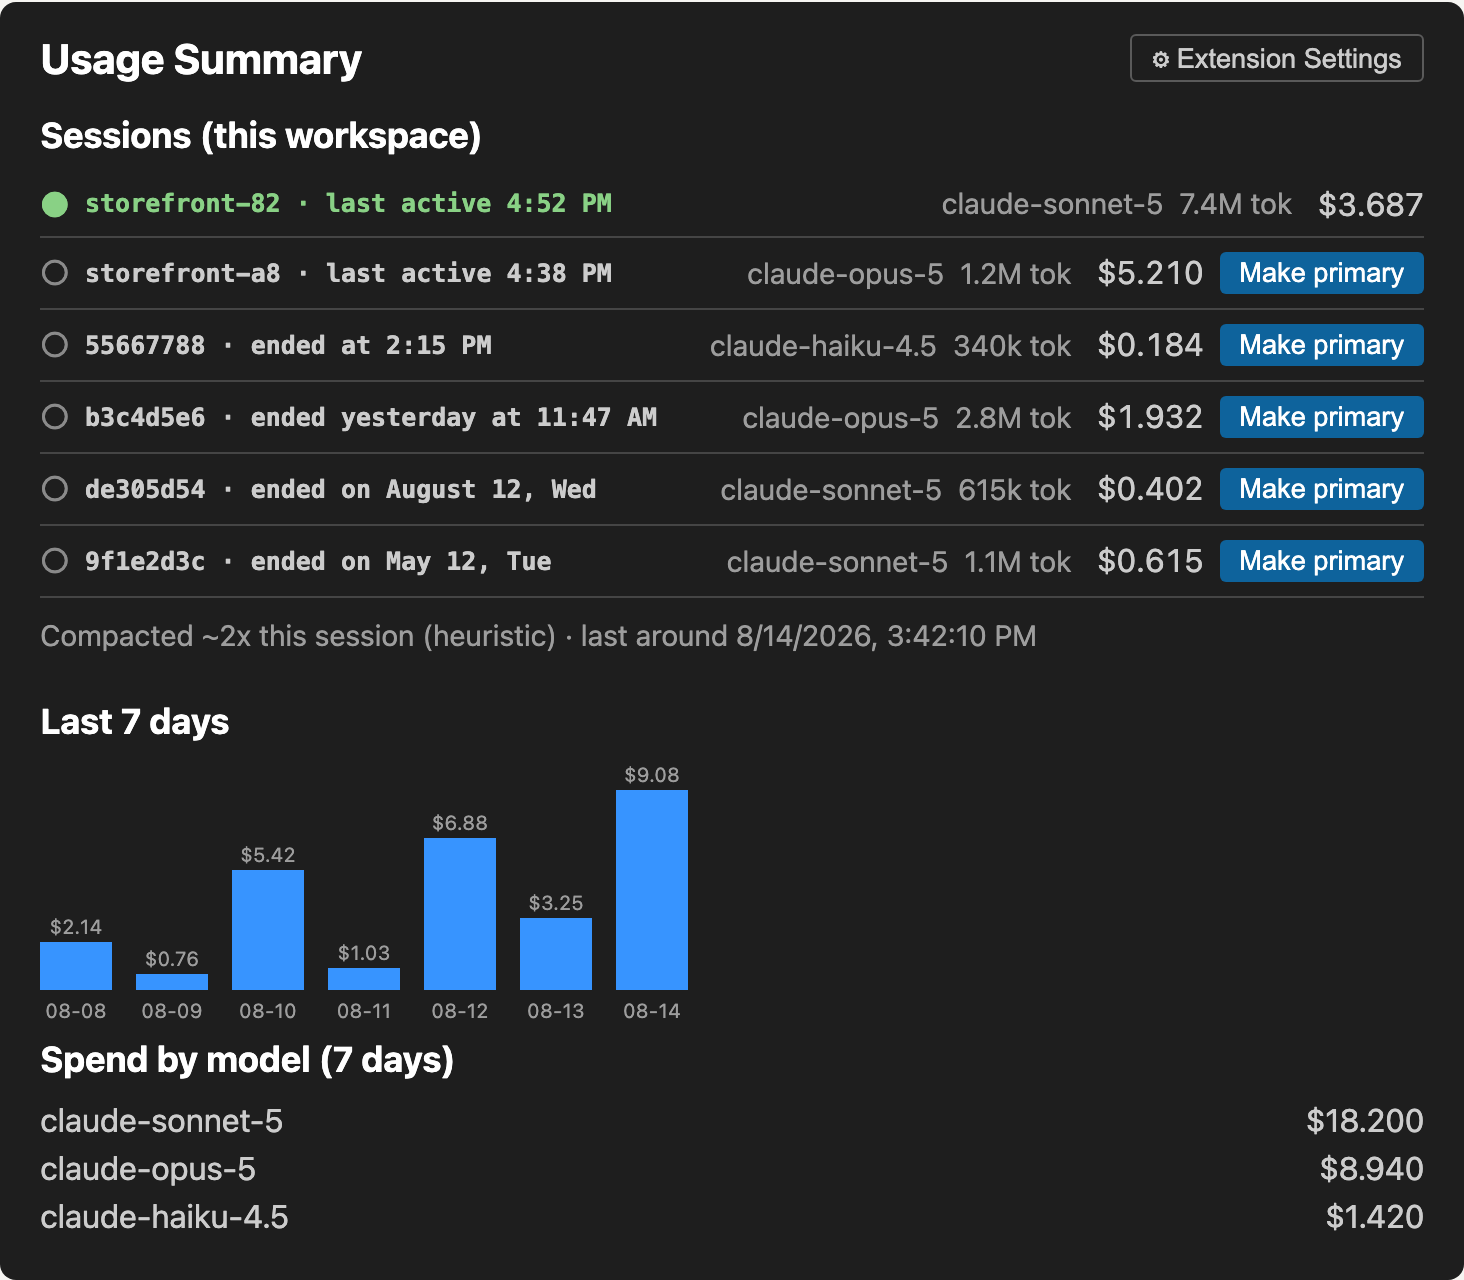
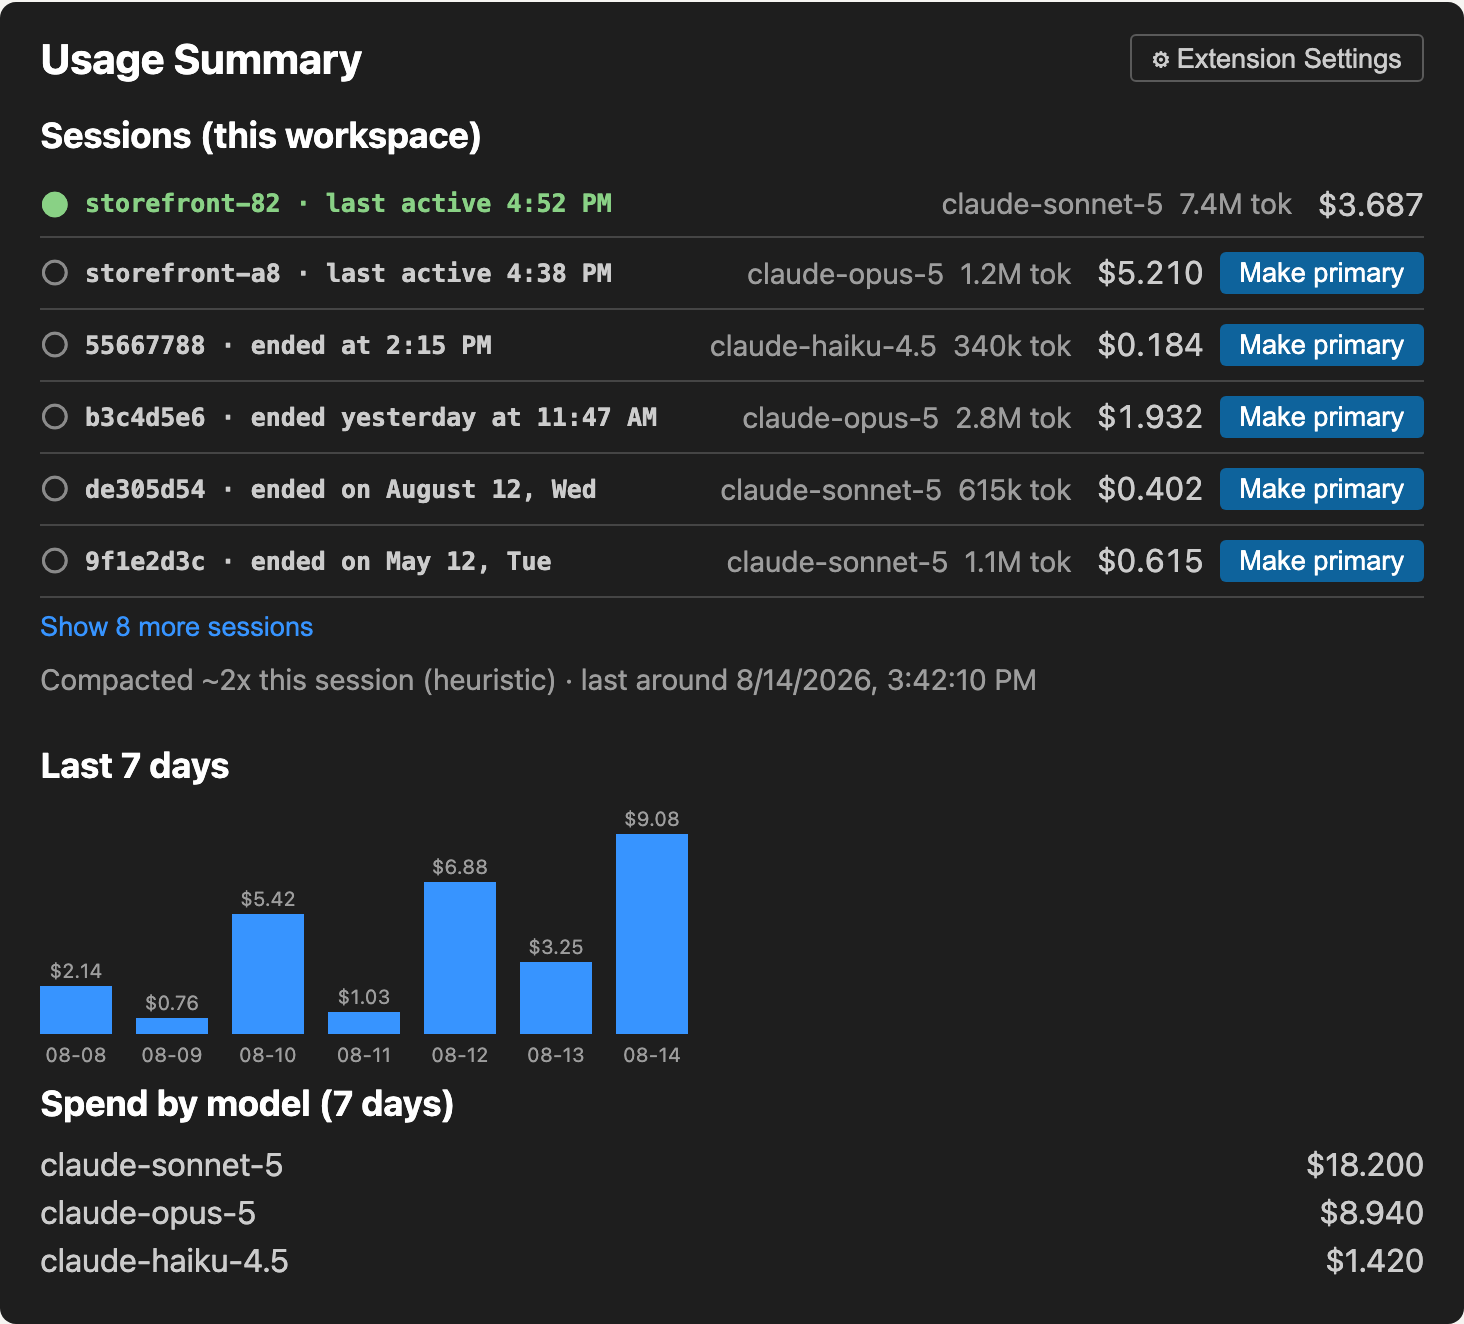
Add a show-more-sessions toggle to the panel, trim README, and flip the tooltip arrow
The panel now collapses past the 6 most recent sessions behind a
"Show more sessions" button so a busy workspace doesn't dominate the
view; expansion state is tracked on the panel instance since a full
HTML re-render on every poll would otherwise reset it. Also trims the
README's Features section to short plain-language bullets, drops the
"explained"/data-source cross-reference wording, and moves the
tooltip's arrow to the right (prototyped and signed off first) with a
regenerated screenshot.

diff --git a/prototypes/rule-ticks.html b/prototypes/rule-ticks.html
@@ -137,6 +137,9 @@
   .panel { display: none; }
   .panel.active { display: block; }
 
+  .severity-controls { display: none; }
+  .severity-controls.active { display: block; }
+
   .tooltip-stage { background: #1e1e1e; border-radius: 8px; padding: 20px 20px 0; overflow: hidden; }
   .card {
     background: #252526;
@@ -151,7 +154,7 @@
     font-family: -apple-system, BlinkMacSystemFont, "Segoe UI", Roboto, Helvetica, Arial, sans-serif;
   }
   .card .beak {
-    position: absolute; left: 96px; bottom: -8px; width: 0; height: 0;
+    position: absolute; right: 96px; bottom: -8px; width: 0; height: 0;
     border-left: 8px solid transparent; border-right: 8px solid transparent; border-top: 8px solid #454545;
   }
   .card .beak::after {
@@ -201,6 +204,10 @@
   .panel-body li.session .cost { font-variant-numeric: tabular-nums; min-width: 58px; text-align: right; }
   .panel-body button.switch { background: #0e639c; color: #ffffff; border: none; padding: 3px 10px; border-radius: 3px; cursor: pointer; font-size: 0.85em; }
   .panel-body button.switch:hover { background: #1177bb; }
+  .panel-body ul.sessions li.session.extra { display: none; }
+  .panel-body ul.sessions.expanded li.session.extra { display: flex; }
+  .panel-body button.show-more { background: transparent; color: #3794ff; border: none; padding: 7px 0 0; cursor: pointer; font-size: 0.85em; display: block; }
+  .panel-body button.show-more:hover { text-decoration: underline; }
   .panel-body .compaction { color: #9d9d9d; font-size: 0.9em; margin: 10px 0 0; }
   .panel-body .chart .bar { fill: #3794ff; }
   .panel-body .chart .bar-label, .panel-body .chart .bar-value { fill: #9d9d9d; font-size: 10px; }
@@ -273,7 +280,7 @@
           <button class="settings">&#9881; Extension Settings</button>
         </div>
         <h2>Sessions (this workspace)</h2>
-        <ul>
+        <ul class="sessions" id="sessionList">
           <li class="session primary">
             <span class="dot">&#9679;</span>
             <span class="name">storefront-82 &middot; last active 4:52 PM</span>
@@ -321,7 +328,72 @@
             <span class="cost">$0.615</span>
             <button class="switch">Make primary</button>
           </li>
+          <li class="session extra">
+            <span class="dot">&#9675;</span>
+            <span class="name">7a2b9c1d &middot; ended on April 30, Thu</span>
+            <span class="model">claude-sonnet-5</span>
+            <span class="tokens">890k tok</span>
+            <span class="cost">$0.541</span>
+            <button class="switch">Make primary</button>
+          </li>
+          <li class="session extra">
+            <span class="dot">&#9675;</span>
+            <span class="name">1c3d5e7f &middot; ended on April 22, Wed</span>
+            <span class="model">claude-opus-5</span>
+            <span class="tokens">3.4M tok</span>
+            <span class="cost">$2.318</span>
+            <button class="switch">Make primary</button>
+          </li>
+          <li class="session extra">
+            <span class="dot">&#9675;</span>
+            <span class="name">4e6f8a0b &middot; ended on April 15, Wed</span>
+            <span class="model">claude-haiku-4.5</span>
+            <span class="tokens">210k tok</span>
+            <span class="cost">$0.098</span>
+            <button class="switch">Make primary</button>
+          </li>
+          <li class="session extra">
+            <span class="dot">&#9675;</span>
+            <span class="name">2d4b6c8e &middot; ended on March 30, Mon</span>
+            <span class="model">claude-sonnet-5</span>
+            <span class="tokens">1.5M tok</span>
+            <span class="cost">$0.877</span>
+            <button class="switch">Make primary</button>
+          </li>
+          <li class="session extra">
+            <span class="dot">&#9675;</span>
+            <span class="name">8f0a2c4e &middot; ended on March 18, Wed</span>
+            <span class="model">claude-sonnet-5</span>
+            <span class="tokens">460k tok</span>
+            <span class="cost">$0.256</span>
+            <button class="switch">Make primary</button>
+          </li>
+          <li class="session extra">
+            <span class="dot">&#9675;</span>
+            <span class="name">6b8d0f2a &middot; ended on February 27, Fri</span>
+            <span class="model">claude-opus-5</span>
+            <span class="tokens">2.1M tok</span>
+            <span class="cost">$1.404</span>
+            <button class="switch">Make primary</button>
+          </li>
+          <li class="session extra">
+            <span class="dot">&#9675;</span>
+            <span class="name">3a5c7e9b &middot; ended on February 10, Tue</span>
+            <span class="model">claude-sonnet-5</span>
+            <span class="tokens">725k tok</span>
+            <span class="cost">$0.389</span>
+            <button class="switch">Make primary</button>
+          </li>
+          <li class="session extra">
+            <span class="dot">&#9675;</span>
+            <span class="name">0e2f4a6c &middot; ended on January 22, Thu</span>
+            <span class="model">claude-sonnet-5</span>
+            <span class="tokens">980k tok</span>
+            <span class="cost">$0.612</span>
+            <button class="switch">Make primary</button>
+          </li>
         </ul>
+        <button class="show-more" id="showMoreBtn">Show 8 more sessions</button>
         <p class="compaction">Compacted ~2x this session (heuristic) &middot; last around 8/14/2026, 3:42:10 PM</p>
 
         <h2>Last 7 days</h2>
@@ -345,40 +417,42 @@
     </div>
   </div>
 
-  <div class="controls">
-    <label>context used <b id="pctLabel">45%</b></label>
-    <input type="range" id="slider" min="0" max="100" value="45" step="1" />
-    <div class="ticks">
-      <span class="mark" style="left:50%"></span><span style="left:50%">50</span>
-      <span class="mark" style="left:70%"></span><span style="left:70%">70</span>
-      <span class="mark" style="left:90%"></span><span style="left:90%">90</span>
+  <div class="severity-controls active" id="severityControls">
+    <div class="controls">
+      <label>context used <b id="pctLabel">45%</b></label>
+      <input type="range" id="slider" min="0" max="100" value="45" step="1" />
+      <div class="ticks">
+        <span class="mark" style="left:50%"></span><span style="left:50%">50</span>
+        <span class="mark" style="left:70%"></span><span style="left:70%">70</span>
+        <span class="mark" style="left:90%"></span><span style="left:90%">90</span>
+      </div>
+      <label class="toggle-row">
+        <input type="checkbox" id="showBar" checked />
+        Show context bar <span class="toggle-hint">(new <code>claudeSimpleStatsBar.showContextBar</code> setting &mdash; unchecked keeps the icon, tag, and percentage, just drops the bar)</span>
+      </label>
     </div>
-    <label class="toggle-row">
-      <input type="checkbox" id="showBar" checked />
-      Show context bar <span class="toggle-hint">(new <code>claudeSimpleStatsBar.showContextBar</code> setting &mdash; unchecked keeps the icon, tag, and percentage, just drops the bar)</span>
-    </label>
-  </div>
 
-  <div class="tiers">
-    <div class="tier calm" id="tier-calm">
-      <div class="name"><span class="ic" style="font-size:13px;">&#xeb08;</span>calm</div>
-      <div class="range">&lt; 50%</div>
+    <div class="tiers">
+      <div class="tier calm" id="tier-calm">
+        <div class="name"><span class="ic" style="font-size:13px;">&#xeb08;</span>calm</div>
+        <div class="range">&lt; 50%</div>
+      </div>
+      <div class="tier elevated" id="tier-elevated">
+        <div class="name"><span class="ic" style="font-size:13px;">&#xebe2;</span>medium</div>
+        <div class="range">50&ndash;69%</div>
+      </div>
+      <div class="tier warning" id="tier-warning">
+        <div class="name"><span class="ic" style="font-size:13px;">&#xea6c;</span>warning</div>
+        <div class="range">70&ndash;89%</div>
+      </div>
+      <div class="tier critical" id="tier-critical">
+        <div class="name"><span class="ic" style="font-size:13px;">&#xeaf2;</span>critical</div>
+        <div class="range">&ge; 90%</div>
+      </div>
     </div>
-    <div class="tier elevated" id="tier-elevated">
-      <div class="name"><span class="ic" style="font-size:13px;">&#xebe2;</span>medium</div>
-      <div class="range">50&ndash;69%</div>
-    </div>
-    <div class="tier warning" id="tier-warning">
-      <div class="name"><span class="ic" style="font-size:13px;">&#xea6c;</span>warning</div>
-      <div class="range">70&ndash;89%</div>
-    </div>
-    <div class="tier critical" id="tier-critical">
-      <div class="name"><span class="ic" style="font-size:13px;">&#xeaf2;</span>critical</div>
-      <div class="range">&ge; 90%</div>
-    </div>
-  </div>
 
-  <footer>&ldquo;medium&rdquo; and the <code>$(graph-line)</code> icon are placeholders for the new tier &mdash; rename or swap the icon if something else reads better. The <code>CALM</code>/<code>MED</code>/<code>WARN</code>/<code>CRIT</code> tag is new too &mdash; drop it if the icon + bar already read clearly enough on their own. Switch to the <b>Tooltip</b> tab above to see the same state reflected in the status bar row underneath the hover card &mdash; the ctx gauge is status-bar-only, so the card itself doesn't repeat it. Or see <b>Session panel</b> for the full multi-session breakdown (no ctx gauge there either &mdash; that indicator is only per-turn, so it doesn't map cleanly onto a list of sessions).</footer>
+    <footer>&ldquo;medium&rdquo; and the <code>$(graph-line)</code> icon are placeholders for the new tier &mdash; rename or swap the icon if something else reads better. The <code>CALM</code>/<code>MED</code>/<code>WARN</code>/<code>CRIT</code> tag is new too &mdash; drop it if the icon + bar already read clearly enough on their own. Set a level here, then switch to the <b>Tooltip</b> tab to see it reflected in the status bar row underneath the hover card &mdash; the ctx gauge is status-bar-only, so the card itself doesn't repeat it. The <b>Session panel</b> tab has no ctx gauge at all &mdash; that indicator is only per-turn, so it doesn't map cleanly onto a list of sessions.</footer>
+  </div>
 </div>
 
 <script>
@@ -457,18 +531,34 @@
   slider.addEventListener('input', renderTooltip);
   renderTooltip();
 
+  const sessionList = document.getElementById('sessionList');
+  const showMoreBtn = document.getElementById('showMoreBtn');
+  const extraCount = sessionList.querySelectorAll('li.session.extra').length;
+  if (extraCount > 0) {
+    const moreLabel = `Show ${extraCount} more session${extraCount === 1 ? '' : 's'}`;
+    showMoreBtn.textContent = moreLabel;
+    showMoreBtn.addEventListener('click', () => {
+      const expanded = sessionList.classList.toggle('expanded');
+      showMoreBtn.textContent = expanded ? 'Show fewer sessions' : moreLabel;
+    });
+  } else {
+    showMoreBtn.style.display = 'none';
+  }
+
   const tabBtns = document.querySelectorAll('.tab-btn');
   const panels = {
     bar: document.getElementById('panel-bar'),
     tooltip: document.getElementById('panel-tooltip'),
     panel: document.getElementById('panel-panel'),
   };
+  const severityControls = document.getElementById('severityControls');
   tabBtns.forEach((btn) => {
     btn.addEventListener('click', () => {
       tabBtns.forEach((b) => b.classList.toggle('active', b === btn));
       Object.keys(panels).forEach((key) => {
         panels[key].classList.toggle('active', key === btn.dataset.tab);
       });
+      severityControls.classList.toggle('active', btn.dataset.tab === 'bar');
     });
   });
 </script>

diff --git a/src/claudeSession/panel.ts b/src/claudeSession/panel.ts
@@ -11,9 +11,18 @@ export interface PanelSessionInfo {
   isPrimary: boolean;
 }
 
+/** How many sessions show by default before the rest collapse behind "Show more". */
+const VISIBLE_SESSION_LIMIT = 6;
+
 /** Floating webview panel opened from the status bar: session breakdown, compaction status, 7-day spend chart. */
 export class ClaudeSessionPanel implements vscode.Disposable {
   private panel?: vscode.WebviewPanel;
+  /**
+   * `update()` replaces the webview's entire HTML (on a 2s poll by default), which
+   * would reset any in-page toggle state — so the "show more" expansion is tracked
+   * here instead of relying on the webview's own DOM/JS state surviving re-renders.
+   */
+  private sessionListExpanded = false;
 
   constructor(private readonly onSwitchPrimary: (file: string) => void) {}
 
@@ -41,13 +50,15 @@ export class ClaudeSessionPanel implements vscode.Disposable {
         this.onSwitchPrimary(message.file);
       } else if (message?.type === "openSettings") {
         vscode.commands.executeCommand("workbench.action.openSettings", "@ext:rcanpahali.claude-simple-stats-bar");
+      } else if (message?.type === "toggleSessionList" && typeof message.expanded === "boolean") {
+        this.sessionListExpanded = message.expanded;
       }
     });
   }
 
   update(sessions: PanelSessionInfo[], history: HistoryStore): void {
     if (!this.panel) return;
-    this.panel.webview.html = renderHtml(sessions, history);
+    this.panel.webview.html = renderHtml(sessions, history, this.sessionListExpanded);
   }
 
   dispose(): void {
@@ -65,13 +76,13 @@ function formatTokenCount(n: number): string {
   return `${n}`;
 }
 
-function renderSessionRow(s: PanelSessionInfo): string {
+function renderSessionRow(s: PanelSessionInfo, extra: boolean): string {
   const total =
     s.usage.inputTokens + s.usage.outputTokens + s.usage.cacheCreationTokens + s.usage.cacheReadTokens;
   const costLabel = s.cost === undefined ? "n/a" : `$${s.cost.toFixed(3)}`;
 
   return `
-    <li class="session${s.isPrimary ? " primary" : ""}">
+    <li class="session${s.isPrimary ? " primary" : ""}${extra ? " extra" : ""}">
       <span class="dot">${s.isPrimary ? "●" : "○"}</span>
       <span class="name" title="${esc(s.file)}">${esc(s.name)}</span>
       <span class="model">${esc(s.usage.model ?? "unknown")}</span>
@@ -156,9 +167,19 @@ function renderModelBreakdown(history: HistoryStore): string {
     .join("")}</ul>`;
 }
 
-function renderHtml(sessions: PanelSessionInfo[], history: HistoryStore): string {
+function renderHtml(sessions: PanelSessionInfo[], history: HistoryStore, sessionListExpanded: boolean): string {
   const primary = sessions.find((s) => s.isPrimary);
-  const rows = sessions.map(renderSessionRow).join("");
+  const rows = sessions
+    .map((s, i) => renderSessionRow(s, i >= VISIBLE_SESSION_LIMIT))
+    .join("");
+  const extraCount = Math.max(0, sessions.length - VISIBLE_SESSION_LIMIT);
+  const moreLabel = `Show ${extraCount} more session${extraCount === 1 ? "" : "s"}`;
+  const showMoreButton =
+    extraCount > 0
+      ? `<button class="show-more" id="showMoreBtn" data-more-label="${esc(moreLabel)}">${
+          sessionListExpanded ? "Show fewer sessions" : moreLabel
+        }</button>`
+      : "";
 
   return `<!doctype html>
 <html>
@@ -179,6 +200,10 @@ function renderHtml(sessions: PanelSessionInfo[], history: HistoryStore): string
   li.session .cost { font-variant-numeric: tabular-nums; min-width: 60px; text-align: right; }
   button.switch { background: var(--vscode-button-background); color: var(--vscode-button-foreground); border: none; padding: 2px 8px; border-radius: 3px; cursor: pointer; font-size: 0.85em; }
   button.switch:hover { background: var(--vscode-button-hoverBackground); }
+  ul.sessions li.session.extra { display: none; }
+  ul.sessions.expanded li.session.extra { display: flex; }
+  button.show-more { background: transparent; color: var(--vscode-textLink-foreground, #3794ff); border: none; padding: 7px 0 0; cursor: pointer; font-size: 0.85em; display: block; }
+  button.show-more:hover { text-decoration: underline; }
   .compaction { color: var(--vscode-descriptionForeground); font-size: 0.9em; }
   .chart .bar { fill: var(--vscode-charts-blue, #3794ff); }
   .chart .bar-label, .chart .bar-value { fill: var(--vscode-descriptionForeground); font-size: 10px; }
@@ -191,7 +216,8 @@ function renderHtml(sessions: PanelSessionInfo[], history: HistoryStore): string
     <button class="settings" id="openSettings">&#9881; Extension Settings</button>
   </div>
   <h2>Sessions (this workspace)</h2>
-  <ul>${rows || "<li>No Claude Code session transcripts found for this workspace.</li>"}</ul>
+  <ul class="sessions${sessionListExpanded ? " expanded" : ""}" id="sessionList">${rows || "<li>No Claude Code session transcripts found for this workspace.</li>"}</ul>
+  ${showMoreButton}
   ${renderCompaction(primary)}
 
   <h2>Last 7 days</h2>
@@ -210,6 +236,16 @@ function renderHtml(sessions: PanelSessionInfo[], history: HistoryStore): string
     document.getElementById("openSettings").addEventListener("click", () => {
       vscode.postMessage({ type: "openSettings" });
     });
+    const sessionList = document.getElementById("sessionList");
+    const showMoreBtn = document.getElementById("showMoreBtn");
+    if (showMoreBtn) {
+      const moreLabel = showMoreBtn.getAttribute("data-more-label");
+      showMoreBtn.addEventListener("click", () => {
+        const expanded = sessionList.classList.toggle("expanded");
+        showMoreBtn.textContent = expanded ? "Show fewer sessions" : moreLabel;
+        vscode.postMessage({ type: "toggleSessionList", expanded });
+      });
+    }
   </script>
 </body>
 </html>`;

diff --git a/README.md b/README.md
@@ -6,19 +6,17 @@ Live Claude Code session stats — model, tokens, context left, cost — in the 
 
 ## Features
 
-- Status bar segment with current model, total tokens, context used, and estimated cost, updating live as the transcript grows.
-- Context usage shown as a `CALM`/`MED`/`WARN`/`CRIT` tag next to a matching icon (neutral below 50%, a small graph at ≥50%, a warning triangle at ≥70%, a flame at ≥90%), plus an optional 6-segment fill bar — turn the bar off with `claudeSimpleStatsBar.showContextBar` and keep just the icon, tag, and percentage.
-- Hover tooltip with the full token breakdown (input / output / cache write / cache read) and the transcript path being tracked.
-- Session panel with every session in the workspace, a 7-day spend chart, per-model spend, and a compaction count.
-- Multi-session support — auto-detects every Claude Code transcript in the workspace, with a switchable primary.
-- Configurable per-model pricing and adjustable poll interval.
+- A status bar segment shows your model, total tokens, context used, and estimated cost. It updates live as you chat.
+- Hover the segment for a full token breakdown and the transcript path.
+- Click the segment for a session panel listing every session in the workspace, a 7-day spend chart, and spend by model.
+- Pricing and poll interval are both configurable.
 
 ## Requirements
 
 - VS Code 1.90 or newer.
-- The Claude Code CLI, writing transcripts locally under `~/.claude/projects/`. This extension has no other data source — see [Where the data comes from](#where-the-data-comes-from).
+- The Claude Code CLI, writing transcripts locally under `~/.claude/projects/`. This extension has no other data source.
 
-## Claude segment, explained
+## Claude segment
 
 ![Anatomy of the Claude segment: model, total tokens, context used, estimated cost, and the four severity-tag states](docs/images/statusbar-anatomy.png)
 
@@ -35,9 +33,9 @@ Hover the segment for a per-category token breakdown and the transcript path:
 
 Click the segment, or run **Claude Simple Stats Bar: Open Session Panel**:
 
-![Session panel showing sessions in this workspace with last-active/ended timestamps, an Extension Settings button, a compaction note, a 7-day spend chart, and spend by model](docs/images/panel-anatomy.png)
+![Session panel showing sessions in this workspace with last-active/ended timestamps, a "Show more sessions" link, an Extension Settings button, a compaction note, a 7-day spend chart, and spend by model](docs/images/panel-anatomy.png)
 
-1. **Sessions in this workspace** — every transcript found here, with the primary one marked. Each row shows a timestamp to tell sessions apart: `last active <time>` for a still-running session, or a scaled `ended <time>` for one that's finished. Running more than one session at once? Use **Make primary**, or the **Switch Primary Session** command, to pick a different one — the pick persists across VS Code restarts.
+1. **Sessions in this workspace** — every transcript found here, with the primary one marked. Each row shows a timestamp to tell sessions apart: `last active <time>` for a still-running session, or a scaled `ended <time>` for one that's finished. Only the 6 most recent show by default — click **Show more sessions** to reveal the rest. Running more than one session at once? Use **Make primary**, or the **Switch Primary Session** command, to pick a different one — the pick persists across VS Code restarts.
 2. **Last 7 days** — a spend chart and per-model breakdown, stored locally and pruned past 7 days.
 3. **Compaction** — a heuristic count of likely compaction events.
 
